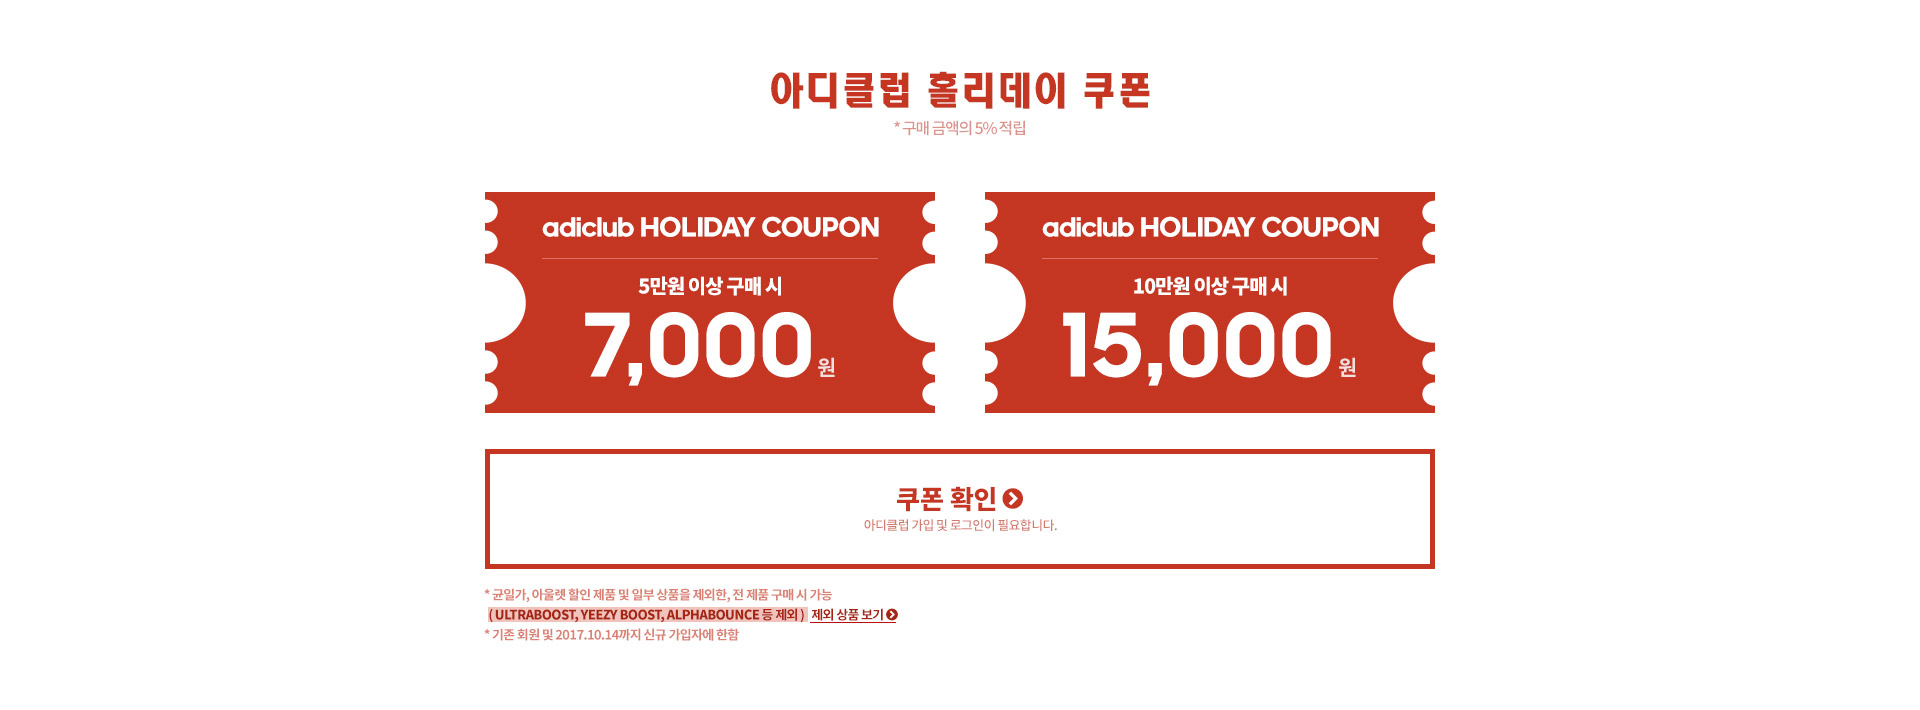
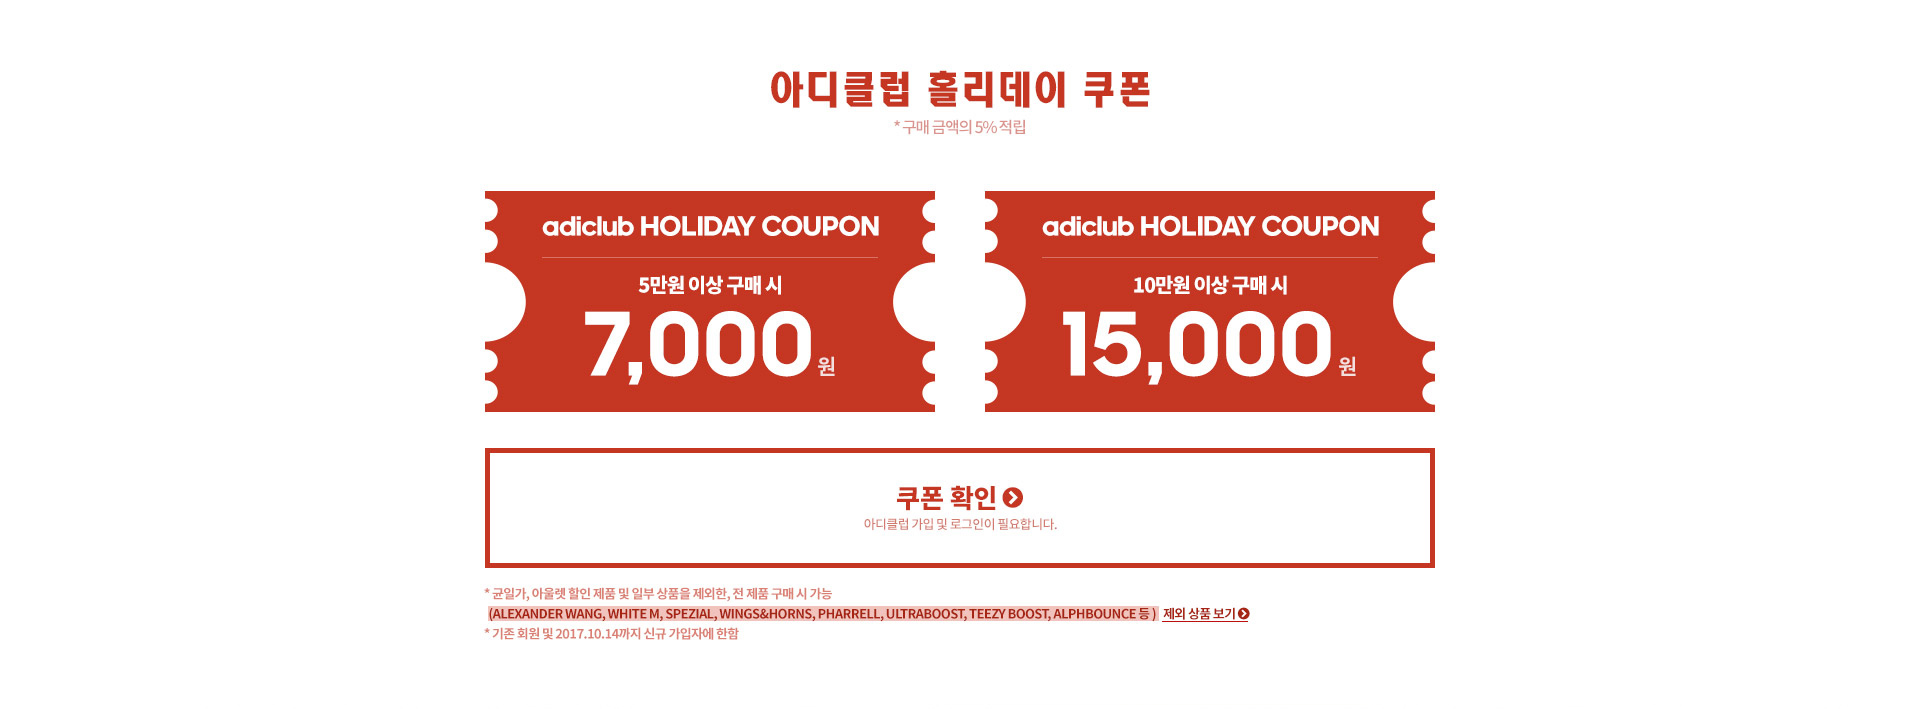
아디다스 홀리데이

diff --git a/app/html/adidas/event/holiday/201709/index.html b/app/html/adidas/event/holiday/201709/index.html
@@ -15,8 +15,14 @@
 <link rel="stylesheet" type="text/css" href="/css/adidas/adidas_r.css" />
 <link rel="stylesheet" type="text/css" href="http://fonts.googleapis.com/earlyaccess/nanumgothic.css"/>
 <script type="text/javascript" src="/js/jquery/jquery-1.4.2.js"></script>
+<script type="text/javascript" src="/js/modalPopup.js"></script>
+<script type="text/javascript" src="/js/customForm.js"></script>
+<script type="text/javascript" src="/js/prototype-1.6.1.js"></script>
+<script type="text/javascript" src="/js/comCode.js"></script>
+<script type="text/javascript" src="/js/validatorUtil.js"></script>
 <script type="text/javascript" src="/js/jquery/ui/jquery-ui-1.7.2.custom.min.js"></script>
-<script type="text/javascript" src="/js/jquery/easing/jquery.easing.1.3.js"></script><script type="text/javascript" src="/js/adidas/adidas.js"></script>
+<script type="text/javascript" src="/js/jquery/easing/jquery.easing.1.3.js"></script>
+<script type="text/javascript" src="/js/adidas/adidas.js"></script>
 
 
 </head>
@@ -25,7 +31,6 @@
 	<div id="wrap">
 
 
-		<script type="text/javascript" src="/js/adidas/adidas.js"></script>
 		<script type="text/javascript" src="/js/adidas/navigation.js"></script>
 		<script type="text/javascript" src="/js/topSearchR.js"></script>
 		<script type="text/javascript" src="/js/validatorUtil.js"></script>
@@ -977,6 +982,7 @@
 		</div>
 
 		<div id="container_r">
+			<!-- holiday_201709 -->
 			<style type="text/css">
 				#holiday_201709{
 					width: 100%;
@@ -997,36 +1003,92 @@
 					left: 50%;
 					margin-left: -960px;
 				}
+				.holiday_201709_pop>.popup .popup-header>.close{
+					top:-60px;
+					right: 12px;
+				}
+				.holiday_201709_pop>.popup .popup-header>.close span{
+					background: url('/images/adidas/event/holiday/201709/close.png') 0 0 no-repeat;
+					display: block;
+					width: 30px;
+				    height: 30px;
+				    margin: 10px;
+				}
+				.holiday_201709_pop>.popup .popup-header{
+					background: #000;
+				}
+				.holiday_201709_pop>.popup .popup-header h2{
+					color:#fff;
+					font-size: 24px;
+					text-align: center;
+					font-weight: 400;
+				}
+				.holiday_201709_pop>.popup .popup-contents{
+					overflow-y: auto;
+					overflow-x: hidden;
+					height: 500px;
+				}
+				.holiday_201709_pop>.popup .popup-contents .article{
+					padding: 0 0 30px 0;
+				}
+				.holiday_201709_pop>.popup .popup-contents .article.col2{
+					width: 50%;
+					float: left;
+				}
+				.holiday_201709_pop>.popup .popup-contents .article h3{
+					padding: 0 0 10px 0;
+					font:20px 'adinenuPro-bold';
+					color:#000;
+					text-transform: uppercase;
+				}
+				.holiday_201709_pop>.popup .popup-contents .article p{
+					font:19px 'adinenuPro-light';
+				}
 			</style>
 			<div id="holiday_201709">
 				<div class="img" style="height:577px;">
-					<img src="/images/adidas/event/holiday/201709/main.jpg" alt="" />
+					<img src="http://image.adidas.co.kr/images/adidas/event/holiday/201709/main.jpg" alt="" />
 				</div>
 				<div class="img" style="height:710px;">
-					<img src="/images/adidas/event/holiday/201709/coupon.jpg" alt="" usemap="#map01"/>
+					<img src="http://image.adidas.co.kr/images/adidas/event/holiday/201709/coupon.jpg" alt="" usemap="#map01"/>
 					<map name="map01" id="map01">
 						<area shape="rect" coords="485,450,1438,570" href="http://shop.adidas.co.kr/PF060201.action?emailYn=Y" alt="">
-						<area shape="rect" coords="809,603,900,628" href="#" alt="">
+						<area shape="rect" coords="1160,605,1250,624" href="javascript:void(0)"  class="modal-popup-click" data-modalpop-click="fade-popup" alt="제외상품보기">
 					</map>
 				</div>
 				<div class="img" style="height:1258px;">
-					<img src="/images/adidas/event/holiday/201709/img1.jpg" alt="" usemap="#map02" />
+					<img src="http://image.adidas.co.kr/images/adidas/event/holiday/201709/img1.jpg" alt="" usemap="#map02" />
 					<map name="map02" id="map02">
 						<area shape="rect" coords="986,370,1250,424" href="http://shop.adidas.co.kr/PF010103.action?S_CTGR_CD=01002&S_LEVEL=4&S_ORDER_BY=1&CATG_CHK=&CATG_CLK=Y" alt="여성베스트제품">
 						<area shape="rect" coords="486,994,750,1047" href="http://shop.adidas.co.kr/PF010103.action?S_CTGR_CD=01001&S_LEVEL=3&S_ORDER_BY=1&CATG_CHK=&CATG_CLK=Y" alt="남성베스트제품">
 					</map>
 				</div>
 				<div class="img" style="height:1242px;">
-					<img src="/images/adidas/event/holiday/201709/img2.jpg" alt="" usemap="#map03" />
+					<img src="http://image.adidas.co.kr/images/adidas/event/holiday/201709/img2.jpg" alt="" usemap="#map03" />
 					<map name="map03" id="map03">
 						<area shape="rect" coords="984,360,1250,414" href="http://shop.adidas.co.kr/PF010103.action?S_CTGR_CD=01003&S_LEVEL=5&S_ORDER_BY=1&CATG_CHK=&CATG_CLK=Y" alt="키즈베스트제품">
-						<area shape="rect" coords="515,884,664,915" href="#" alt="">
-						<area shape="rect" coords="883,1017,1061,1050" href="http://shop.adidas.co.kr/upload/storelist/index.html?adidasHoliday2017" alt="쿠폰 사용가능 매장 보기">
+						<area shape="rect" coords="515,915,644,946" href="javascript:void(0)" class="modal-popup-click" data-modalpop-click="fade-popup" alt="제외상품보기">
+						<area shape="rect" coords="883,1049,1061,1080" href="http://shop.adidas.co.kr/upload/storelist/index.html?adidasHoliday2017" alt="쿠폰 사용가능 매장 보기">
 					</map>
 				</div>
 			</div>
-			<!-- //holiday_201609 -->
+			<script type="text/javascript">
+				(function($){
 
+					ModalPopup.bind('fade-popup',{
+						onload : function(obj){
+							// console.log('기본팝업 LOADED');
+						},
+						onopen : function(obj){
+							$('body').css('overflow-y','hidden');
+						},
+						onclose : function(obj){
+							$('body').css('overflow','auto');
+						}
+					});
+				})(jQuery);
+			</script>
+			<!-- //holiday_201709 -->
 		</div>
 
 		<div id="footer_r">
@@ -1279,6 +1341,151 @@
 				</div>
 			</div>
 		</div>
+
+		<!-- 201709 -->
+		<div class="holiday_201709_pop modal-popup-wrapper"
+			 data-modalpop=""
+			 data-modalpop-name="fade-popup"
+			 data-modalpop-width="800"
+			 data-modalpop-height="500"
+			 data-modalpop-fade=""
+		>
+			<div class="overlay"></div>
+			<div class="popup">
+				<div class="popup-header">
+					<h2>홀리데이 쿠폰 제외 상품</h2>
+					<a href="javascript:void(0)" class="close"><span class="spt_bg"></span></a>
+				</div>
+				<div class="popup-contents clfix">
+					<div class="article">
+						<h3>Alexander Wang</h3>
+						<p>
+							AC6839, AC6840, AC6841, AC6842, AC6844, AC6845, AC6846, AC6847, AC6848, AC6849
+							AC6850, AC6851, AC7408, CG1973, CG1976, CG1978, CG1980, CG1981, CG1994, CG1996, CG1997
+							CG1998, CG1999, CG2000, CG2001, CG2002, CG2005, CG2006, CG2008, CG2010, CG2012
+							CG2013, CV5045, CV5046, CV5048, CV5049, CV5050, CV5051, CV5052, CV5053, CV5248
+							CV5249, CV5250, CV5251, CV5254, CV5255, CV5256, CV5257, CV5258, CV5259, CV5264
+							CV5265, CV5266, CV5267, CV5269, CV5271, CV5273, CV5275, CV5277, CV5279, CV5280
+							CV5281, CV5282, CV5284, CV5286, CV5288, CV5290, CV5291, CV5292, CV5293, CV5294
+							CV5295, CV5298, CV5300, CV5304, CV7449, CV7450, CV7451, CV7453, CV7454, CV7456
+							CV7457, CV7459, CV7460, CW0503, CW0504, CW0505, CW0506, CW0507, CW0508, CW2033
+							CW3368, CW3369, CW3558, CX0235, DA9309
+						</p>
+					</div>
+					<div class="article">
+						<h3>WHITE M</h3>
+						<p>
+							BQ4063, BQ4065, BQ4068, BQ4069, BQ4071, BQ4077, BQ4080, BQ4094, BQ4096, BQ4098
+							BQ4101, BQ4102, BQ4104, BQ4107, BQ4109, BQ4110, BQ4113, BQ4115, BQ4116, BQ4120, BQ4121
+							BQ4123, BQ4126, BQ4127, BQ4129, CG3646, CG3647, CG3648, CG3649, CG3650, CG3651
+							CG3652, CG3666, CG3667, CG3668, CG3669, CQ1763, CQ1764
+						</p>
+					</div>
+					<div class="article">
+						<h3>Spezial</h3>
+						<p>
+							CD2448, CD2450, CD2451, CD2452, CD2453, CD2454, CD2455, CD2456, CD2458, CG2918
+							CG2919, CG2920, CG2921, CG2922, CG2923, CG2924, CG2925, CG2926, CG2927
+						</p>
+					</div>
+					<div class="article">
+						<h3>Wings&Horns</h3>
+						<p>
+							BR0155, BR0159, BR0161, BR0164, BR0166, BR0167, BR0170, BR0172, CE6134, CG3750, CG3752
+							CG3781, CI8183, CI8184, CI8185, CI8186, CI8187, CP9550
+						</p>
+					</div>
+					<div class="article">
+						<h3>Pharrell</h3>
+						<p>
+							BY2671, BY2672, BY2673, CQ1872, AC7188, AC7359, AC7360, AC7361, CE9482, CE9483, CE9484
+							CE9485, CE9486, CE9488, CE9490, CE9491
+						</p>
+					</div>
+					<div class="article">
+						<h3>LTD</h3>
+						<p>
+							BA8229, CG2993, CG3038, CG3004, CP9632, CP9685, CP9686, CG3001, CG2994, CG2995
+							CG3003
+						</p>
+					</div>
+					<div class="article">
+						<h3>YEEZY</h3>
+						<p>
+							BB6372, BB6373, CP9366, CP9652, CP9654, AH2203, B37571, B37572, DA9572
+						</p>
+					</div>
+					<div class="article">
+						<h3>MMW</h3>
+						<p>
+							CG0752, CG0753, CG0754, CG0755, CQ1824, CQ1825, CQ1826, CQ1827
+						</p>
+					</div>
+					<div class="article col2">
+						<h3>Ultraboost</h3>
+						<p>
+							S80731, S80732, BA8841, BA8842
+						</p>
+					</div>
+					<div class="article col2">
+						<h3>CRAFTED PACK</h3>
+						<p>
+							BW1249, BW1250, BW1253
+						</p>
+					</div>
+					<div class="article col2">
+						<h3>PARLEY</h3>
+						<p>
+							AC7804, CQ0299, AC7804, CQ0299
+						</p>
+					</div>
+					<div class="article col2">
+						<h3>Reigning Champ</h3>
+						<p>
+							CG5328, CG5330, CG5331
+						</p>
+					</div>
+					<div class="article col2">
+						<h3>crazy</h3>
+						<p>
+							BY4423
+						</p>
+					</div>
+					<div class="article col2">
+						<h3>Winter JKT</h3>
+						<p>
+							AA6885, AA6886
+						</p>
+					</div>
+					<div class="article col2">
+						<h3>NMD</h3>
+						<p>
+							CP9718, BW1126
+						</p>
+					</div>
+					<div class="article col2">
+						<h3>Equipment</h3>
+						<p>
+							DB0181
+						</p>
+					</div>
+					<div class="article col2">
+						<h3>Harden</h3>
+						<p>
+							CG5106, CG5107
+						</p>
+					</div>
+					<div class="article col2">
+						<h3>New-York</h3>
+						<p>
+							CM7193
+						</p>
+					</div>
+				</div>
+			</div>
+		</div>
+		<!-- 201709 end -->
+
 	</div>
 
 </body>
